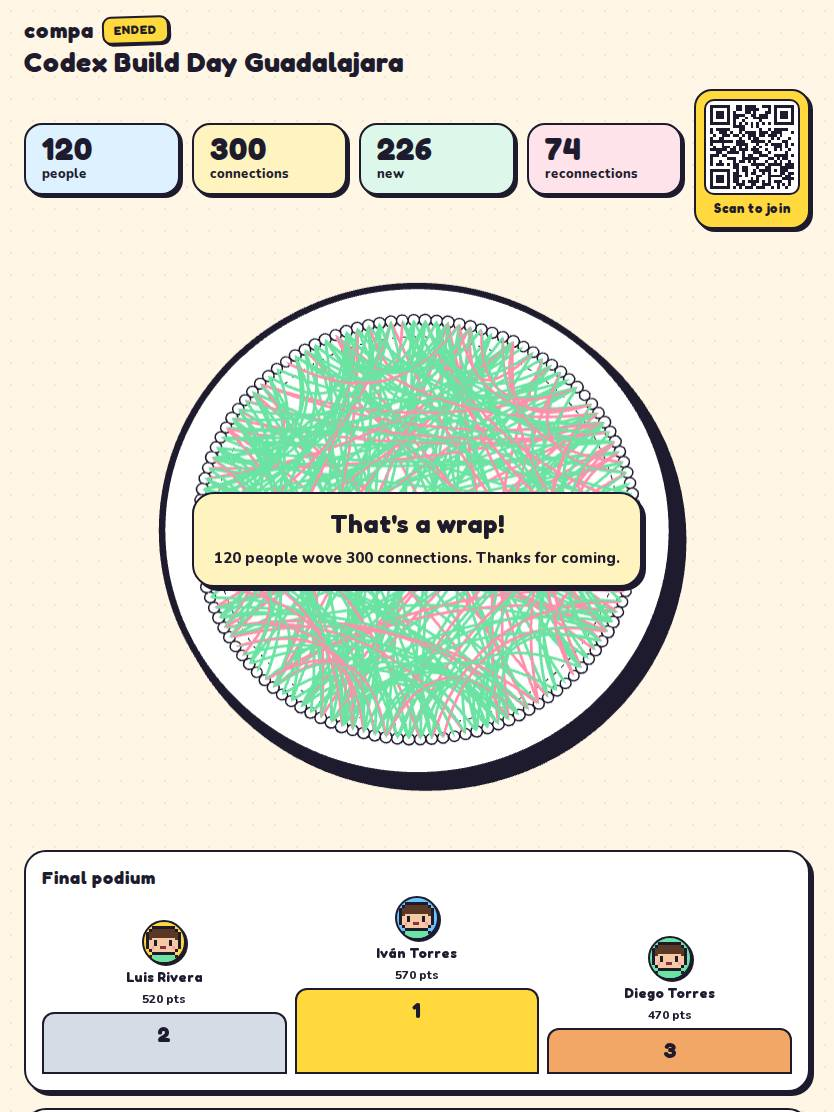
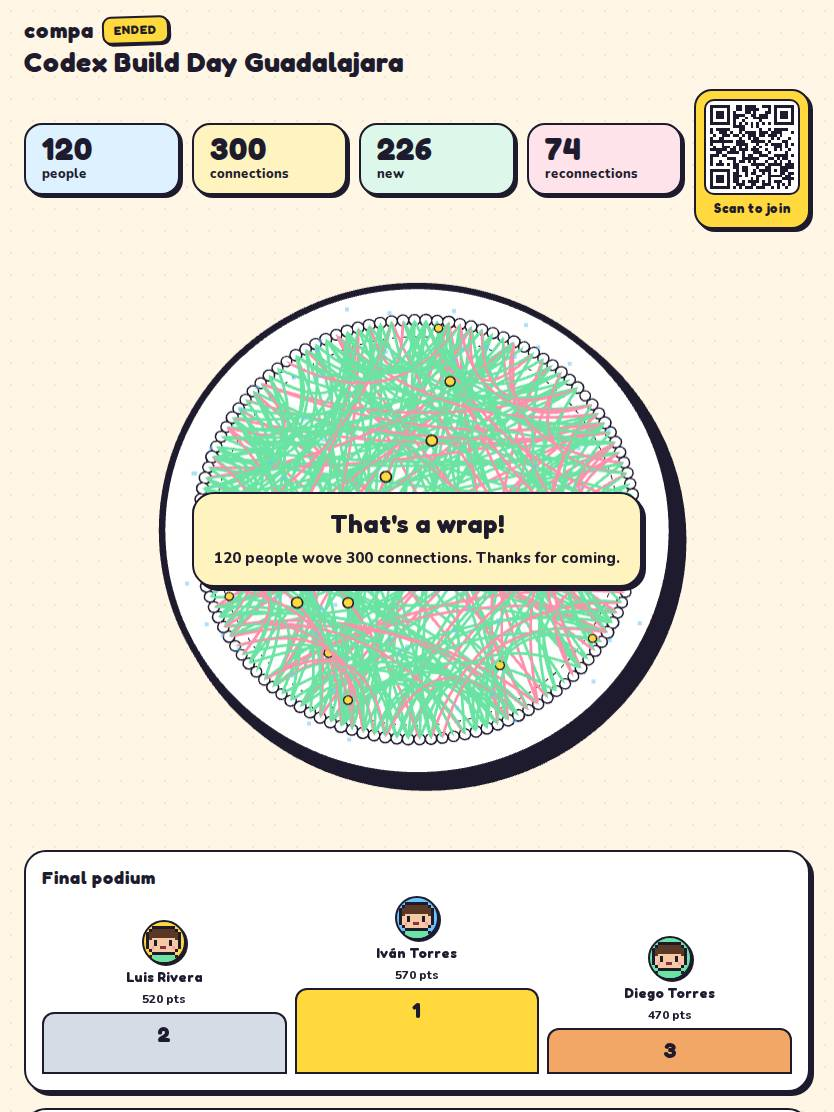
test(live): cover every rotating view in every scenario
Each view is checked in zero, rush, ended and thousands at 1920 (shown, still moving, no sideways scroll) and in rush on a phone; race also with long names, missing photos and a tap to the person card; orbit under network loss; the rotation timer, a reload starting elsewhere and bad URL values; and every view holding still under reduced motion. The motion check masks only the card inside a state overlay, not the full-stage wrapper. Screenshots of every view are refreshed.

diff --git a/e2e/live/live-board.spec.ts b/e2e/live/live-board.spec.ts
@@ -290,7 +290,7 @@ for (const locale of ["es-MX", "en-US"] as const) {
 // own (the reconnecting pill, state cards, the rotation strip) are masked out.
 async function stageMoves(page: Page): Promise<boolean> {
   const stage = page.getByTestId("live-stage");
-  const mask = [page.getByTestId("live-stale"), page.getByTestId("live-viz-indicator"), page.locator('[data-testid="live-empty"], [data-testid="live-ended"], [data-testid="live-upcoming"]')];
+  const mask = [page.getByTestId("live-stale"), page.getByTestId("live-viz-indicator"), page.locator('[data-testid="live-empty"] > div, [data-testid="live-ended"] > div, [data-testid="live-upcoming"] > div')];
   const before = await stage.screenshot({ animations: "allow", mask });
   await page.waitForTimeout(700);
   const after = await stage.screenshot({ animations: "allow", mask });
